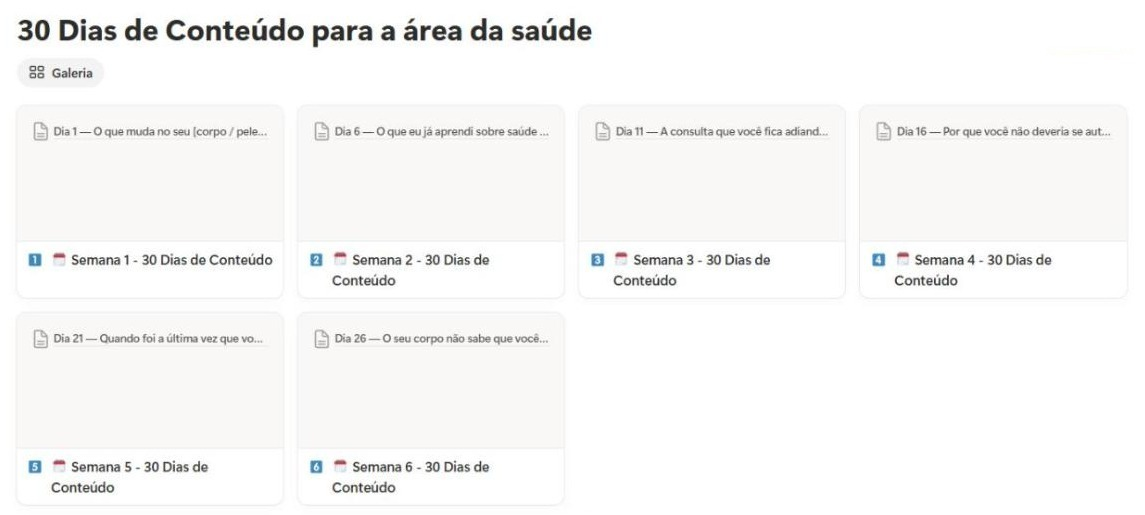
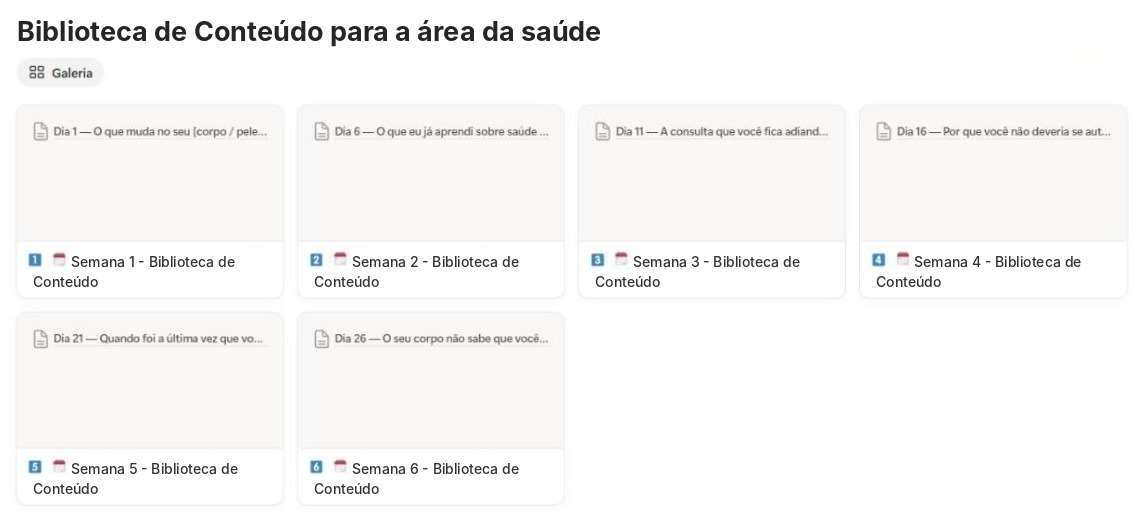
Biblioteca: título alinhado ao anúncio, sem 'roteiros', nome atual no print e preço no topo
Claude-Session: https://claude.ai/code/session_01GgecxHNaSAHyPm6wsKufKj

diff --git a/biblioteca/index.html b/biblioteca/index.html
@@ -4,9 +4,9 @@
 <meta charset="utf-8">
 <meta name="viewport" content="width=device-width, initial-scale=1">
 <title>Biblioteca de Conteúdo para a Saúde — Tenas Digital</title>
-<meta name="description" content="Notion com 30 roteiros de carrossel prontos, com legenda e hashtags, para profissionais da saúde. Acesso vitalício.">
+<meta name="description" content="Notion com 30 conteúdos prontos para qualquer especialidade da saúde, com legenda e hashtags. Acesso vitalício.">
 <meta property="og:title" content="Biblioteca de Conteúdo para a Saúde — Tenas Digital">
-<meta property="og:description" content="Notion com 30 roteiros de carrossel prontos, com legenda e hashtags, para profissionais da saúde. Acesso vitalício.">
+<meta property="og:description" content="Notion com 30 conteúdos prontos para qualquer especialidade da saúde, com legenda e hashtags. Acesso vitalício.">
 <meta property="og:image" content="https://tenasdigital.com/biblioteca/img/og.png">
 <meta property="og:type" content="website">
 <meta property="og:locale" content="pt_BR">
@@ -60,12 +60,12 @@ src="https://www.facebook.com/tr?id=1456388222555867&ev=PageView&noscript=1"
 <div style="display: flex; justify-content: center; padding: 72px 20px 88px">
 <div style="width: 100%; max-width: 1200px; display: flex; flex-wrap: wrap; gap: 56px; align-items: center">
 <div style="flex: 1 1 480px; min-width: 0; display: flex; flex-direction: column; gap: 22px">
-<span style="font-size: 12px; font-weight: 500; letter-spacing: 0.18em; text-transform: uppercase; color: #0E0E10">Biblioteca de conteúdos para a saúde · no Notion</span>
-<h1 style="margin: 0; color: #0E0E10; font-weight: 500; font-size: clamp(38px, 5.2vw, 60px); line-height: 1.05; letter-spacing: -0.035em">Doutora, você deixa de postar porque <span style="color: #5551FF">não sabe o que falar?</span></h1>
-<p style="margin: 0; font-size: 18px; color: #45454D; max-width: 34em">A Biblioteca de Conteúdo para a Saúde é um <strong style="color: #0E0E10; font-weight: 500">Notion com 30 roteiros de carrossel prontos</strong>, com legenda e hashtags, para você adaptar à sua especialidade e postar. Pagou uma vez, é seu para sempre.</p>
+<span style="font-size: 12px; font-weight: 500; letter-spacing: 0.18em; text-transform: uppercase; color: #0E0E10">Biblioteca de conteúdo para a saúde · no Notion</span>
+<h1 style="margin: 0; color: #0E0E10; font-weight: 500; font-size: clamp(38px, 5.2vw, 60px); line-height: 1.05; letter-spacing: -0.035em">Doutora, agenda vazia e <span style="color: #5551FF">sem tempo pra pensar no que postar?</span></h1>
+<p style="margin: 0; font-size: 18px; color: #45454D; max-width: 34em">A Biblioteca de Conteúdo para a Saúde é um <strong style="color: #0E0E10; font-weight: 500">Notion com 30 conteúdos prontos para qualquer especialidade da saúde</strong>: o texto de cada card, a legenda e as hashtags, para você adaptar e postar. Pagou uma vez, é seu para sempre.</p>
 <div style="display: flex; flex-wrap: wrap; gap: 14px; align-items: center">
 <a href="#oferta" style="display: inline-flex; align-items: center; justify-content: center; gap: 10px; min-height: 54px; padding: 0 32px; background: #5551FF; color: #FFFFFF; border-radius: 60px; text-decoration: none; font-weight: 500; font-size: 15px">Quero minha biblioteca <svg width="18" height="18" viewBox="0 0 24 24" fill="none" stroke="currentColor" stroke-width="2" stroke-linecap="round" stroke-linejoin="round" aria-hidden="true"><path d="M5 12h14M13 6l6 6-6 6"/></svg></a>
-<span style="font-size: 13px; color: #666666">Acesso imediato · garantia de 7 dias</span>
+<span style="font-size: 13px; color: #666666"><strong style="color: #0E0E10; font-weight: 600">R$37</strong> · pagamento único · acesso imediato · garantia de 7 dias</span>
 </div>
 </div>
 <div style="flex: 1 1 480px; min-width: 0; display: flex; justify-content: center">
@@ -77,7 +77,7 @@ src="https://www.facebook.com/tr?id=1456388222555867&ev=PageView&noscript=1"
 </div>
 <div style="position: absolute; right: -6px; bottom: 0; width: 42%; background: #0E0E10; border-radius: 30px; padding: 8px; box-shadow: 0 24px 48px rgba(39,39,43,0.3)">
 <div style="border-radius: 23px; overflow: hidden; background: #FFFFFF; aspect-ratio: 9 / 14">
-<img src="/biblioteca/img/notion-dia1.jpg" alt="Roteiro do Dia 1 aberto no Notion" style="display: block; width: 100%; height: 100%; object-fit: cover; object-position: top left">
+<img src="/biblioteca/img/notion-dia1.jpg" alt="Conteúdo do Dia 1 aberto no Notion" style="display: block; width: 100%; height: 100%; object-fit: cover; object-position: top left">
 </div>
 </div>
 <span style="position: absolute; left: -4px; bottom: 24px; background: #FFFFFF; border: 1px solid #E4E7ED; border-radius: 60px; padding: 10px 18px; font-size: 13px; font-weight: 500; color: #0E0E10; box-shadow: 0 10px 24px rgba(39,39,43,0.1)">Acesso vitalício</span>
@@ -139,14 +139,14 @@ src="https://www.facebook.com/tr?id=1456388222555867&ev=PageView&noscript=1"
 <div style="width: 100%; max-width: 1200px; display: flex; flex-direction: column; gap: 48px">
 <div style="display: flex; flex-direction: column; gap: 16px; max-width: 760px">
 <span style="font-size: 12px; font-weight: 500; letter-spacing: 0.18em; text-transform: uppercase; color: #0E0E10">O que é</span>
-<h2 style="margin: 0; color: #0E0E10; font-weight: 500; font-size: clamp(32px, 4.2vw, 46px); line-height: 1.12; letter-spacing: -0.025em">Um Notion com a sua <span style="color: #5551FF">biblioteca de conteúdos.</span></h2>
+<h2 style="margin: 0; color: #0E0E10; font-weight: 500; font-size: clamp(32px, 4.2vw, 46px); line-height: 1.12; letter-spacing: -0.025em">Um Notion com a sua <span style="color: #5551FF">biblioteca de conteúdo.</span></h2>
 <p style="margin: 0; font-size: 18px; color: #45454D">Tudo organizado em um só lugar, para você abrir sempre que precisar de um post, pelo celular ou pelo computador.</p>
 </div>
 <div style="display: grid; grid-template-columns: repeat(auto-fit, minmax(260px, 1fr)); gap: 20px">
 <div style="background: #E4E9FF; border-radius: 16px; padding: 30px; display: flex; flex-direction: column; gap: 12px">
 <svg width="28" height="28" viewBox="0 0 24 24" fill="none" stroke="#3F3BE0" stroke-width="1.8" stroke-linecap="round" stroke-linejoin="round" aria-hidden="true"><rect x="4" y="3" width="16" height="18" rx="2"/><path d="M8 8h8M8 12h8M8 16h5"/></svg>
 <span style="font-size: 20px; font-weight: 600; color: #0E0E10">No Notion</span>
-<span style="color: #45454D">Organizado em 6 semanas, com um roteiro por dia. Funciona na versão gratuita do Notion.</span>
+<span style="color: #45454D">Organizado em 6 semanas, com um conteúdo por dia. Funciona na versão gratuita do Notion.</span>
 </div>
 <div style="background: #F1E6FE; border-radius: 16px; padding: 30px; display: flex; flex-direction: column; gap: 12px">
 <svg width="28" height="28" viewBox="0 0 24 24" fill="none" stroke="#6D2FB7" stroke-width="1.8" stroke-linecap="round" stroke-linejoin="round" aria-hidden="true"><path d="M18.2 8.8a4 4 0 1 1 0 6.4L12 12l-6.2 3.2a4 4 0 1 1 0-6.4L12 12z"/></svg>
@@ -170,11 +170,11 @@ src="https://www.facebook.com/tr?id=1456388222555867&ev=PageView&noscript=1"
 <h2 style="margin: 0; color: #0E0E10; font-weight: 500; font-size: clamp(32px, 4.2vw, 46px); line-height: 1.12; letter-spacing: -0.025em">6 entregas prontas para usar hoje.</h2>
 </div>
 <div style="display: grid; grid-template-columns: repeat(auto-fit, minmax(320px, 1fr)); gap: 14px">
-<div style="background: #FFFFFF; border-radius: 16px; padding: 26px; display: flex; gap: 18px"><span style="font-size: 36px; font-weight: 300; color: #5551FF; line-height: 1">01</span><div style="display: flex; flex-direction: column; gap: 4px"><span style="font-weight: 600; color: #0E0E10; font-size: 17px">30 roteiros de carrossel</span><span style="color: #666666; font-size: 15px">Um tema por dia, com 8 cards: capa, gancho, desenvolvimento e chamada para ação.</span></div></div>
+<div style="background: #FFFFFF; border-radius: 16px; padding: 26px; display: flex; gap: 18px"><span style="font-size: 36px; font-weight: 300; color: #5551FF; line-height: 1">01</span><div style="display: flex; flex-direction: column; gap: 4px"><span style="font-weight: 600; color: #0E0E10; font-size: 17px">30 conteúdos prontos</span><span style="color: #666666; font-size: 15px">Um tema por dia, com 8 cards: capa, gancho, desenvolvimento e chamada para ação.</span></div></div>
 <div style="background: #FFFFFF; border-radius: 16px; padding: 26px; display: flex; gap: 18px"><span style="font-size: 36px; font-weight: 300; color: #5551FF; line-height: 1">02</span><div style="display: flex; flex-direction: column; gap: 4px"><span style="font-weight: 600; color: #0E0E10; font-size: 17px">240 cards já escritos</span><span style="color: #666666; font-size: 15px">O texto de cada slide pronto. Nenhum post começa do zero.</span></div></div>
-<div style="background: #FFFFFF; border-radius: 16px; padding: 26px; display: flex; gap: 18px"><span style="font-size: 36px; font-weight: 300; color: #5551FF; line-height: 1">03</span><div style="display: flex; flex-direction: column; gap: 4px"><span style="font-weight: 600; color: #0E0E10; font-size: 17px">30 legendas com hashtags</span><span style="color: #666666; font-size: 15px">A legenda de cada carrossel, pronta para copiar e colar.</span></div></div>
+<div style="background: #FFFFFF; border-radius: 16px; padding: 26px; display: flex; gap: 18px"><span style="font-size: 36px; font-weight: 300; color: #5551FF; line-height: 1">03</span><div style="display: flex; flex-direction: column; gap: 4px"><span style="font-weight: 600; color: #0E0E10; font-size: 17px">30 legendas com hashtags</span><span style="color: #666666; font-size: 15px">A legenda de cada conteúdo, pronta para copiar e colar.</span></div></div>
 <div style="background: #FFFFFF; border-radius: 16px; padding: 26px; display: flex; gap: 18px"><span style="font-size: 36px; font-weight: 300; color: #5551FF; line-height: 1">04</span><div style="display: flex; flex-direction: column; gap: 4px"><span style="font-weight: 600; color: #0E0E10; font-size: 17px">Calendário de 6 semanas</span><span style="color: #666666; font-size: 15px">Cinco conteúdos por semana, já em sequência.</span></div></div>
-<div style="background: #FFFFFF; border-radius: 16px; padding: 26px; display: flex; gap: 18px"><span style="font-size: 36px; font-weight: 300; color: #5551FF; line-height: 1">05</span><div style="display: flex; flex-direction: column; gap: 4px"><span style="font-weight: 600; color: #0E0E10; font-size: 17px">CTAs que geram conversa</span><span style="color: #666666; font-size: 15px">Cada roteiro termina com uma chamada para comentar, o primeiro passo até o agendamento.</span></div></div>
+<div style="background: #FFFFFF; border-radius: 16px; padding: 26px; display: flex; gap: 18px"><span style="font-size: 36px; font-weight: 300; color: #5551FF; line-height: 1">05</span><div style="display: flex; flex-direction: column; gap: 4px"><span style="font-weight: 600; color: #0E0E10; font-size: 17px">CTAs que geram conversa</span><span style="color: #666666; font-size: 15px">Cada conteúdo termina com uma chamada para comentar, o primeiro passo até o agendamento.</span></div></div>
 <div style="background: #5551FF; border-radius: 16px; padding: 26px; display: flex; gap: 18px"><span style="font-size: 36px; font-weight: 300; color: #FFFFFF; line-height: 1">06</span><div style="display: flex; flex-direction: column; gap: 4px"><span style="font-weight: 600; color: #FFFFFF; font-size: 17px">Serve para qualquer especialidade</span><span style="color: #FFFFFF; font-size: 15px">Médica, dentista, nutricionista, fisioterapeuta, fonoaudióloga, psicóloga e mais.</span></div></div>
 </div>
 </div>
@@ -184,7 +184,7 @@ src="https://www.facebook.com/tr?id=1456388222555867&ev=PageView&noscript=1"
 <div style="display: flex; justify-content: center; padding: 96px 20px">
 <div style="width: 100%; max-width: 1200px; display: flex; flex-wrap: wrap; gap: 56px; align-items: center">
 <div style="flex: 1 1 420px; min-width: 0; display: flex; flex-direction: column; gap: 20px">
-<span style="font-size: 12px; font-weight: 500; letter-spacing: 0.18em; text-transform: uppercase; color: #0E0E10">Veja um roteiro por dentro</span>
+<span style="font-size: 12px; font-weight: 500; letter-spacing: 0.18em; text-transform: uppercase; color: #0E0E10">Veja um conteúdo por dentro</span>
 <h2 style="margin: 0; color: #0E0E10; font-weight: 500; font-size: clamp(32px, 4.2vw, 46px); line-height: 1.12; letter-spacing: -0.025em">Card por card, <span style="color: #5551FF">pronto para montar.</span></h2>
 <div style="display: flex; flex-direction: column; border-top: 1px solid #E4E7ED">
 <div style="display: flex; gap: 16px; padding: 16px 0; border-bottom: 1px solid #E4E7ED"><span style="font-weight: 600; color: #0E0E10; flex: 0 0 160px">Capa</span><span style="color: #666666">O título que faz a pessoa parar de rolar o feed.</span></div>
@@ -196,7 +196,7 @@ src="https://www.facebook.com/tr?id=1456388222555867&ev=PageView&noscript=1"
 </div>
 <div style="flex: 1 1 420px; min-width: 0; background: linear-gradient(135deg, #E4E9FF 0%, #F1E6FE 100%); border-radius: 24px; padding: 28px">
 <div style="background: #FFFFFF; border-radius: 14px; overflow: hidden; border: 1px solid #E4E7ED; max-height: 460px">
-<img src="/biblioteca/img/notion-dia1.jpg" alt="Roteiro do Dia 1 com capa, gancho e cards" style="display: block; width: 100%; height: auto">
+<img src="/biblioteca/img/notion-dia1.jpg" alt="Conteúdo do Dia 1 com capa, gancho e cards" style="display: block; width: 100%; height: auto">
 </div>
 </div>
 </div>
@@ -216,7 +216,7 @@ src="https://www.facebook.com/tr?id=1456388222555867&ev=PageView&noscript=1"
 <div style="background: #FFFFFF; border-radius: 16px; padding: 28px; display: flex; flex-direction: column; gap: 10px"><span style="display: flex; gap: 10px; align-items: center; font-weight: 600; color: #0E0E10; font-size: 18px"><svg width="22" height="22" viewBox="0 0 24 24" fill="none" stroke="#1FA855" stroke-width="2.8" stroke-linecap="round" stroke-linejoin="round" aria-hidden="true" style="flex: none"><path d="M20 6L9 17l-5-5"/></svg>Valor percebido</span><span style="color: #666666">Um perfil cuidado ajuda a sustentar o valor da sua consulta.</span></div>
 <div style="background: #FFFFFF; border-radius: 16px; padding: 28px; display: flex; flex-direction: column; gap: 10px"><span style="display: flex; gap: 10px; align-items: center; font-weight: 600; color: #0E0E10; font-size: 18px"><svg width="22" height="22" viewBox="0 0 24 24" fill="none" stroke="#1FA855" stroke-width="2.8" stroke-linecap="round" stroke-linejoin="round" aria-hidden="true" style="flex: none"><path d="M20 6L9 17l-5-5"/></svg>Autoridade</span><span style="color: #666666">Um feed organizado transmite a imagem de um consultório organizado.</span></div>
 </div>
-<p style="margin: 0; color: #45454D">Os roteiros se encaixam em qualquer identidade visual: é só levar o texto para o seu modelo no Canva.</p>
+<p style="margin: 0; color: #45454D">Os textos se encaixam em qualquer identidade visual: é só levar o texto para o seu modelo no Canva.</p>
 </div>
 </div>
 
@@ -249,7 +249,7 @@ src="https://www.facebook.com/tr?id=1456388222555867&ev=PageView&noscript=1"
 <div style="flex: 1 1 420px; min-width: 0; max-width: 500px; background: #FFFFFF; border-radius: 24px; padding: 34px; display: flex; flex-direction: column; gap: 20px">
 <span style="font-weight: 600; color: #0E0E10; font-size: 18px">Biblioteca de Conteúdo para a Saúde</span>
 <div style="display: flex; flex-direction: column; gap: 10px; color: #2D2D2D">
-<span style="display: flex; gap: 10px; align-items: center"><svg width="18" height="18" viewBox="0 0 24 24" fill="none" stroke="#5551FF" stroke-width="2.5" stroke-linecap="round" stroke-linejoin="round" aria-hidden="true"><path d="M20 6L9 17l-5-5"/></svg>Notion com 30 roteiros de carrossel</span>
+<span style="display: flex; gap: 10px; align-items: center"><svg width="18" height="18" viewBox="0 0 24 24" fill="none" stroke="#5551FF" stroke-width="2.5" stroke-linecap="round" stroke-linejoin="round" aria-hidden="true"><path d="M20 6L9 17l-5-5"/></svg>Notion com 30 conteúdos prontos</span>
 <span style="display: flex; gap: 10px; align-items: center"><svg width="18" height="18" viewBox="0 0 24 24" fill="none" stroke="#5551FF" stroke-width="2.5" stroke-linecap="round" stroke-linejoin="round" aria-hidden="true"><path d="M20 6L9 17l-5-5"/></svg>240 cards já escritos</span>
 <span style="display: flex; gap: 10px; align-items: center"><svg width="18" height="18" viewBox="0 0 24 24" fill="none" stroke="#5551FF" stroke-width="2.5" stroke-linecap="round" stroke-linejoin="round" aria-hidden="true"><path d="M20 6L9 17l-5-5"/></svg>30 legendas com hashtags</span>
 <span style="display: flex; gap: 10px; align-items: center"><svg width="18" height="18" viewBox="0 0 24 24" fill="none" stroke="#5551FF" stroke-width="2.5" stroke-linecap="round" stroke-linejoin="round" aria-hidden="true"><path d="M20 6L9 17l-5-5"/></svg>Calendário de 6 semanas</span>
@@ -284,7 +284,7 @@ src="https://www.facebook.com/tr?id=1456388222555867&ev=PageView&noscript=1"
 <h2 style="margin: 0 0 20px; color: #0E0E10; font-weight: 500; font-size: clamp(32px, 4.2vw, 46px); line-height: 1.12; letter-spacing: -0.025em">Ficou alguma dúvida?</h2>
 <details style="border-bottom: 1px solid #E4E7ED; padding: 20px 0">
 <summary style="font-weight: 500; color: #0E0E10; font-size: 17px">O que eu recebo, exatamente?</summary>
-<p style="margin: 12px 0 0; color: #45454D">Um Notion com a biblioteca de conteúdos: 30 roteiros de carrossel com legenda e hashtags, organizados em 6 semanas. O acesso é vitalício.</p>
+<p style="margin: 12px 0 0; color: #45454D">Um Notion com a biblioteca de conteúdo: 30 conteúdos prontos, com o texto de cada card, legenda e hashtags, organizados em 6 semanas. O acesso é vitalício.</p>
 </details>
 <details style="border-bottom: 1px solid #E4E7ED; padding: 20px 0">
 <summary style="font-weight: 500; color: #0E0E10; font-size: 17px">Como recebo o acesso?</summary>
@@ -292,7 +292,7 @@ src="https://www.facebook.com/tr?id=1456388222555867&ev=PageView&noscript=1"
 </details>
 <details style="border-bottom: 1px solid #E4E7ED; padding: 20px 0">
 <summary style="font-weight: 500; color: #0E0E10; font-size: 17px">Funciona para a minha especialidade?</summary>
-<p style="margin: 12px 0 0; color: #45454D">Sim. Os roteiros trazem campos entre colchetes para você trocar pela sua especialidade e pela área do corpo que você trata.</p>
+<p style="margin: 12px 0 0; color: #45454D">Sim. Os conteúdos trazem campos entre colchetes para você trocar pela sua especialidade e pela área do corpo que você trata.</p>
 </details>
 <details style="border-bottom: 1px solid #E4E7ED; padding: 20px 0">
 <summary style="font-weight: 500; color: #0E0E10; font-size: 17px">Preciso pagar o Notion ou saber usar?</summary>
@@ -304,7 +304,7 @@ src="https://www.facebook.com/tr?id=1456388222555867&ev=PageView&noscript=1"
 </details>
 <details style="border-bottom: 1px solid #E4E7ED; padding: 20px 0">
 <summary style="font-weight: 500; color: #0E0E10; font-size: 17px">Os textos respeitam as normas do meu conselho?</summary>
-<p style="margin: 12px 0 0; color: #45454D">Os roteiros têm foco educativo e não prometem resultados. Ainda assim, revise cada conteúdo de acordo com as regras de publicidade do seu conselho.</p>
+<p style="margin: 12px 0 0; color: #45454D">Os conteúdos têm foco educativo e não prometem resultados. Ainda assim, revise cada conteúdo de acordo com as regras de publicidade do seu conselho.</p>
 </details>
 </div>
 </div>
